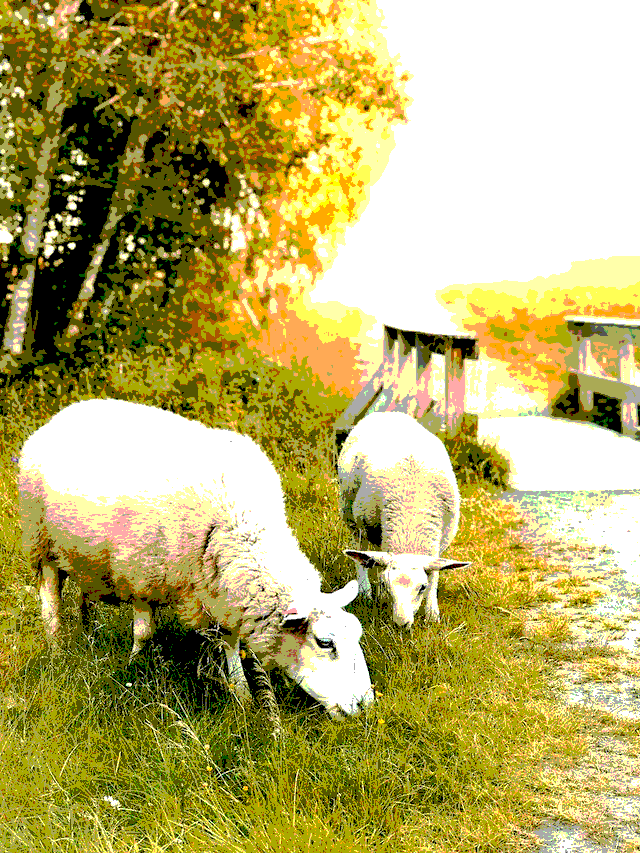
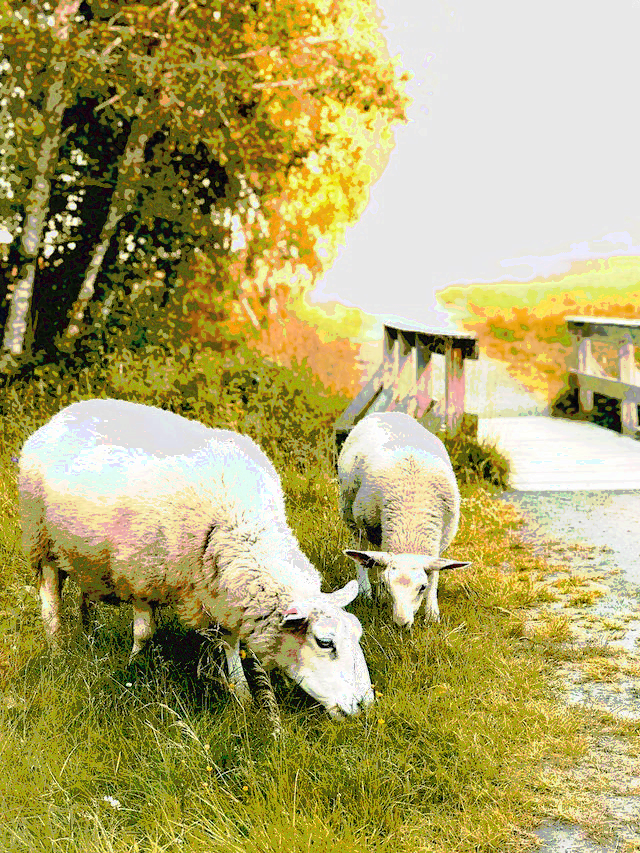
Add files via upload

diff --git a/IP.java b/IP.java
@@ -999,7 +999,7 @@ public class IP {
 
         float[] histogram = new float[256];
         for (var i = 0; i < 256; i++) {
-            histogram[0] = 0;
+            histogram[i] = 0;
         }
 
         for (var y = 0; y < bh; y++) {
@@ -1018,14 +1018,21 @@ public class IP {
         // Normalize
         float max = 0;
         for (int i = 0; i < 256; i++) {
-            if (histogram[i] > max) {
+            if(histogram[i] > max && i == 255){
+                System.out.println("Nulling 255, for testing purpose, was clearly wrong, attempting to fix, 255: " + histogram[i]);
+                // histogram[i] = max;
                 max = histogram[i];
+                System.out.println("i: " + i + ", Max: " + max);
+            }
+            else if (histogram[i] > max) {
+                max = histogram[i];
+                System.out.println("i: " + i + ", Max: " + max);
             }
         }
 
-        for (int i = 0; i < 256; i++) {
-            histogram[i] /= max;
-        }
+        // for (int i = 0; i < 256; i++) {
+        //     histogram[i] /= max;
+        // }
 
         Graphics g = intermediate.getGraphics();
 
@@ -1036,37 +1043,20 @@ public class IP {
             g.setColor(Color.WHITE);
         }
         g.fillRect(0, 0, 255, height);
-        // Random obj = new Random();
         for (int i = 0; i < 256; i++) {
             if(alter == true){
-                // int rand_num = obj.nextInt(0xffffff + 1);
-                // String colorCode = String.format("#%06x", rand_num);
-                // Color color2 = Color.decode(colorCode);
-                // float[] hsv = Main.rgbTohsv(color2.getRed(), color2.getGreen(), color2.getBlue());
-                // hsv[2] = i;
-                // float[] rgb = Main.hsvToRgb(hsv[0], hsv[1], hsv[2]);
                 Color color2;
-                // if(i <= 10){
-                //     color2 = new Color(10, 10, 10);
-                // }
-                // else if(i >= 200){
-                //     color2 = new Color(200, 200, 200);
-                // }
-                // else{
-                    color2 = new Color(i, i, i);
-                // }
+                color2 = new Color(i, i, i);
                 g.setColor(color2);
             }
             else{
                 g.setColor(Color.BLACK);
             }
-            g.fillRect(i, 0, 1, (int) ((1 - histogram[i]) * height));
+            g.fillRect(i, 0, 1, (int) ((1 - histogram[i]/max) * height));
         }
 
         g.dispose();
 
-        // intermediate.setRGB(x, y, new Color((int) rgb[0], (int) rgb[1], (int)
-        // rgb[2]).getRGB());
         bufferedImage = intermediate;
 
         return this;
@@ -1081,22 +1071,29 @@ public class IP {
 
         float[] histogram = new float[361];
         for (var i = 0; i < 361; i++) {
-            histogram[0] = 0;
+            histogram[i] = 0;
         }
 
+        double total = 0;
+        double kept = 0;
         for (var y = 0; y < bh; y++) {
             for (var x = 0; x < bw; x++) {
 
                 Color original = new Color(bufferedImage.getRGB(x, y));
 
                 float[] hsv = Main.rgbTohsv(original.getRed(), original.getGreen(), original.getBlue());
-                if(original.getRed() != original.getGreen() && original.getRed() != original.getBlue() && original.getGreen() != original.getBlue()){
+                if((original.getRed() != original.getGreen() && original.getRed() != original.getBlue())
+                || (original.getRed() != original.getGreen() && original.getGreen() != original.getBlue())
+                || (original.getRed() != original.getBlue() && original.getGreen() != original.getBlue())){
                     histogram[(int) hsv[0]]++;
+                    kept++;
                 }
-
+                total++;
             }
         }
-
+        double percent = kept / total * 100;
+        System.out.println("Total: " + total + ", Kept: " + kept + ", Percentage remaining: " + percent + "%");
+        
         // Normalize
         float max = 0;
         for (int i = 0; i < 361; i++) {
@@ -1125,6 +1122,8 @@ public class IP {
                 Color color2 = Color.decode(colorCode);
                 float[] hsv = Main.rgbTohsv(color2.getRed(), color2.getGreen(), color2.getBlue());
                 hsv[0] = i%360;
+                hsv[1] = 255;
+                hsv[2] = 255;
                 float[] rgb = Main.hsvToRgb(hsv[0], hsv[1], hsv[2]);
                 color2 = new Color(((int)rgb[0]), ((int)rgb[1]), ((int)rgb[2]));
                 g.setColor(color2);
@@ -1137,8 +1136,6 @@ public class IP {
 
         g.dispose();
 
-        // intermediate.setRGB(x, y, new Color((int) rgb[0], (int) rgb[1], (int)
-        // rgb[2]).getRGB());
         bufferedImage = intermediate;
 
         return this;
@@ -1153,9 +1150,10 @@ public class IP {
 
         float[] histogram = new float[361];
         for (var i = 0; i < 361; i++) {
-            histogram[0] = 0;
+            histogram[i] = 0;
         }
-
+        
+        double total = 0;
         for (var y = 0; y < bh; y++) {
             for (var x = 0; x < bw; x++) {
 
@@ -1164,7 +1162,7 @@ public class IP {
                 float[] hsv = Main.rgbTohsv(original.getRed(), original.getGreen(), original.getBlue());
 
                 histogram[(int) hsv[0]]++;
-
+                total++;
             }
         }
 
@@ -1179,6 +1177,14 @@ public class IP {
             }
         }
 
+        double removed = (double)(histogram[0] - max);
+        if(removed <= 0){
+            removed = 0;
+        }
+        else{
+            removed = removed / total * 100;
+        }
+        System.out.println("Total: " + total + ", Max: " + max + ", Zero: " + histogram[0] + ", Removing: " + removed + "%");
         for (int i = 0; i < 361; i++) {
             histogram[i] /= max;
             if (i == 0 && histogram[0] >= max){
@@ -1199,8 +1205,8 @@ public class IP {
         for (int i = 0; i < 361; i++) {
             if(alter == true){
                 hsv[0] = i%360;
-                hsv[1] = 200;
-                hsv[2] = 200;
+                hsv[1] = 255;
+                hsv[2] = 255;
                 float[] rgb = Main.hsvToRgb(hsv[0], hsv[1], hsv[2]);
                 Color color2 = new Color(((int)rgb[0]), ((int)rgb[1]), ((int)rgb[2]));
                 g.setColor(color2);
@@ -1212,9 +1218,7 @@ public class IP {
         }
 
         g.dispose();
-
-        // intermediate.setRGB(x, y, new Color((int) rgb[0], (int) rgb[1], (int)
-        // rgb[2]).getRGB());
+        
         bufferedImage = intermediate;
 
         return this;

diff --git a/Main.java b/Main.java
@@ -9,50 +9,65 @@ import java.util.concurrent.atomic.AtomicInteger;
 public class Main {
     public static void main(String[] args) {
         // new IP("download.jpg").onlyHighHue().save("downloadHighHue.png");
-        // AtomicInteger width = new AtomicInteger(-1);
-        // AtomicInteger height = new AtomicInteger(-1);
+        AtomicInteger width = new AtomicInteger(-1);
+        AtomicInteger height = new AtomicInteger(-1);
 
         new ICon("sheep.jpg")
-        .exec(i->i.bitSlice(0b11000000))
+        .exec(i->i.bitSlice(0b11011011))
         .save("sheepBitSlicing.png");
 
-        // new ICon("sheep.jpg")
-        // .setAsWidth(width)
-        // .setAsHeight(height)
-        // .addLayer("./Images/gradient.jpg")
-        // .setLayerAlpha(1f)
-        // .exec(l -> l.removeBlue())
-        // .setLayerBlendmode(BlendMode.Darken)
-        // .exec(ip -> ip.scaleLinear(width.get() / 255.0f, height.get() / 255.0f / 1.175f))
-        // .save("sheepBlueDarken.png"); 
+        new ICon("sheepBitSlicing.png")
+        .setAsWidth(width)
+        .setAsHeight(height)
+        .addLayer("./Images/gradient.jpg")
+        .setLayerAlpha(1f)
+        .exec(l -> l.removeBlue())
+        .setLayerBlendmode(BlendMode.Divide)
+        .exec(ip -> ip.scaleLinear(width.get() / 255.0f, height.get() / 255.0f / 1.175f))
+        .save("sheepBitSlicingBlueDarken.png");
         
-        // new IP("sheep.jpg").toHistogramHue(true).save("sheepHistogramHue.png");
-        // new IP("sheep.jpg").toHistogramHueNullZero(true).save("sheepHistogramHueNullZero.png");
-        // new IP("download.jpg").toHistogramHue(true).save("downloadHistogramHue.png");
-        // new IP("download.jpg").toHistogramHueNullZero(true).save("downloadHistogramHue.png");
-        // new IP("sheepBlueDarken.png").toHistogramHue(true).save("sheepBlueDarkenHistogramHue.png");
-        // new IP("sheepBlueDarken.png").toHistogramHue(true).save("sheepBlueDarkenHistogramHueNullZero.png");
-        // new IP("sheepBlueDarken.png").toHistogramValue(true).save("sheepBlueDarkenHistogramValue.png");
-        
-        // new ICon("sheepBlueDarkenHistogramHue.png")
-        // .setAsWidth(width)
-        // .setAsHeight(height)
-        // .addToCanvasSize(0, 200)
-        // .addLayer("sheepBlueDarkenHistogramValue.png")
-        // .moveLayer(0, height.get())
-        // .exec(ip -> ip.scaleLinear(width.get() / 255.0f, 1))
-        // .setBackgroundColor(Color.WHITE)
-        // .save("sheepBlueDarkenHistogram.png"); 
 
-        // new ICon("sheepBlueDarken.png")
-        // .setAsWidth(width)
-        // .setAsHeight(height)
-        // .addToCanvasSize(0, 400)
-        // .addLayer("sheepBlueDarkenHistogram.png")
-        // .selectLayer(1)
-        // .moveLayer(0, height.get())
-        // .exec(ip -> ip.scaleLinear(width.get() / 360.0f, 1))
-        // .save("sheepBlueDarkenHistogram2.png"); 
+        new IP("sheepBitSlicingBlueDarken.png").toHistogramHue(true).save("sheepBitSlicingBlueDarkenHistogramHue.png");
+        new IP("sheepBitSlicingBlueDarken.png").toHistogramHueNullZero(true).save("sheepBitSlicingBlueDarkenHistogramHueNullZero.png");
+        new IP("sheepBitSlicingBlueDarken.png").toHistogramValue(true).save("sheepBitSlicingBlueDarkenHistogramValue.png");
+        
+        new ICon("download.jpg")
+        .exec(i->i.bitSlice(0b11011011))
+        .save("downloadBitSlicing.png");
+
+        new ICon("downloadBitSlicing.png")
+        .setAsWidth(width)
+        .setAsHeight(height)
+        .addLayer("./Images/gradient.jpg")
+        .setLayerAlpha(1f)
+        .exec(l -> l.removeBlue())
+        .setLayerBlendmode(BlendMode.Lighten)
+        .exec(ip -> ip.scaleLinear(width.get() / 255.0f, height.get() / 255.0f / 1.175f))
+        .save("downloadBitSlicingBlueDarken.png");
+        
+        new IP("downloadBitSlicingBlueDarken.png").toHistogramHue(true).save("sheepBitSlicingBlueDarkenHistogramHue.png");
+        new IP("downloadBitSlicingBlueDarken.png").toHistogramHueNullZero(true).save("sheepBitSlicingBlueDarkenHistogramHueNullZero.png");
+        new IP("downloadBitSlicingBlueDarken.png").toHistogramValue(true).save("downloadHistogramValue.png");
+        
+        new ICon("sheepBitSlicingBlueDarkenHistogramHueNullZero.png")
+        .setAsWidth(width)
+        .setAsHeight(height)
+        .addToCanvasSize(0, 200)
+        .addLayer("sheepBitSlicingBlueDarkenHistogramValue.png")
+        .moveLayer(0, height.get())
+        .exec(ip -> ip.scaleLinear(width.get() / 255.0f, 1))
+        .setBackgroundColor(Color.WHITE)
+        .save("sheepBitSlicingBlueDarkenHistogram.png"); 
+
+        new ICon("sheepBitSlicingBlueDarken.png")
+        .setAsWidth(width)
+        .setAsHeight(height)
+        .addToCanvasSize(0, 400)
+        .addLayer("sheepBitSlicingBlueDarkenHistogram.png")
+        .selectLayer(1)
+        .moveLayer(0, height.get())
+        .exec(ip -> ip.scaleLinear(width.get() / 360.0f, 1))
+        .save("sheepBitSlicingBlueDarkenHistogram2.png"); 
 }
 
     public static float interpolate(float one, float two, float percent){
